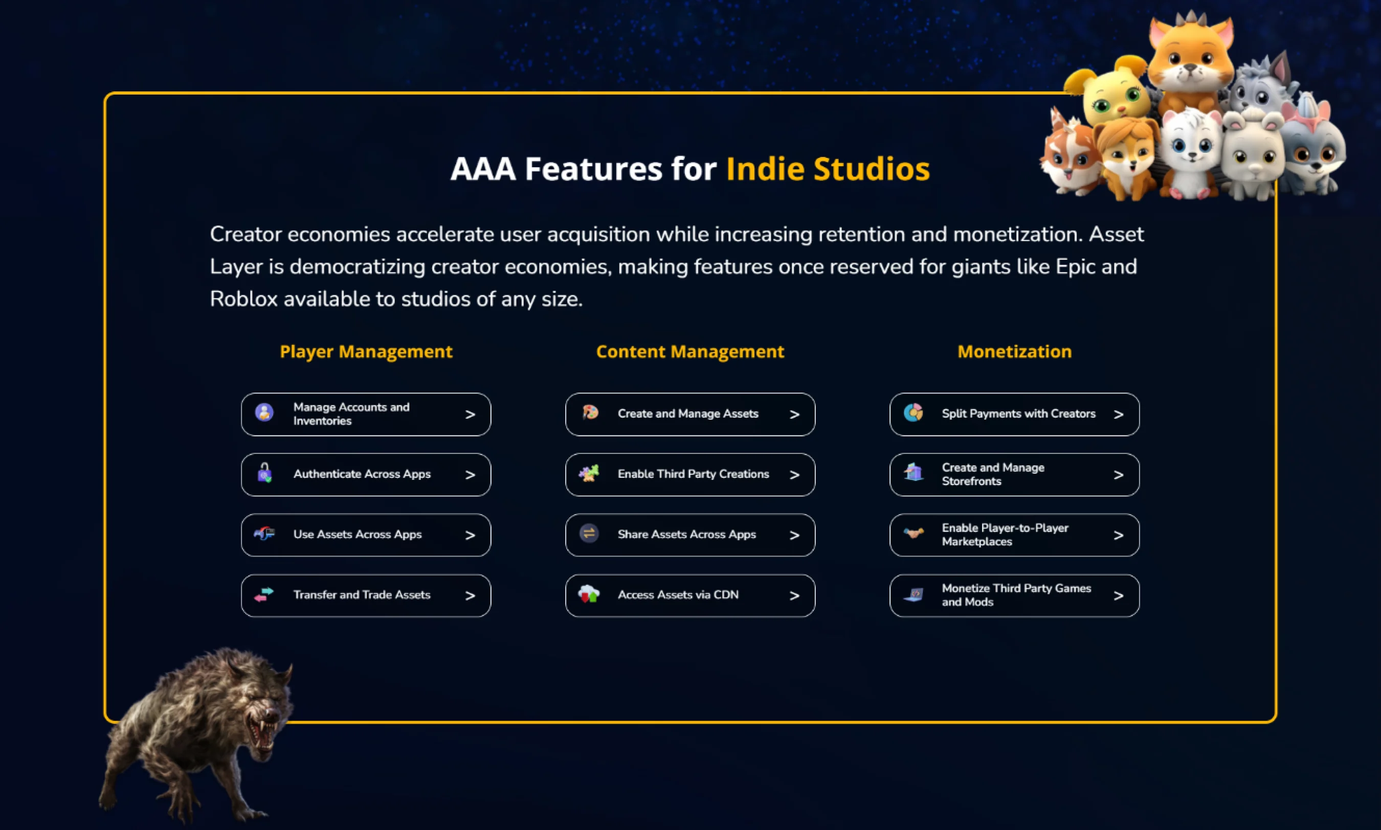
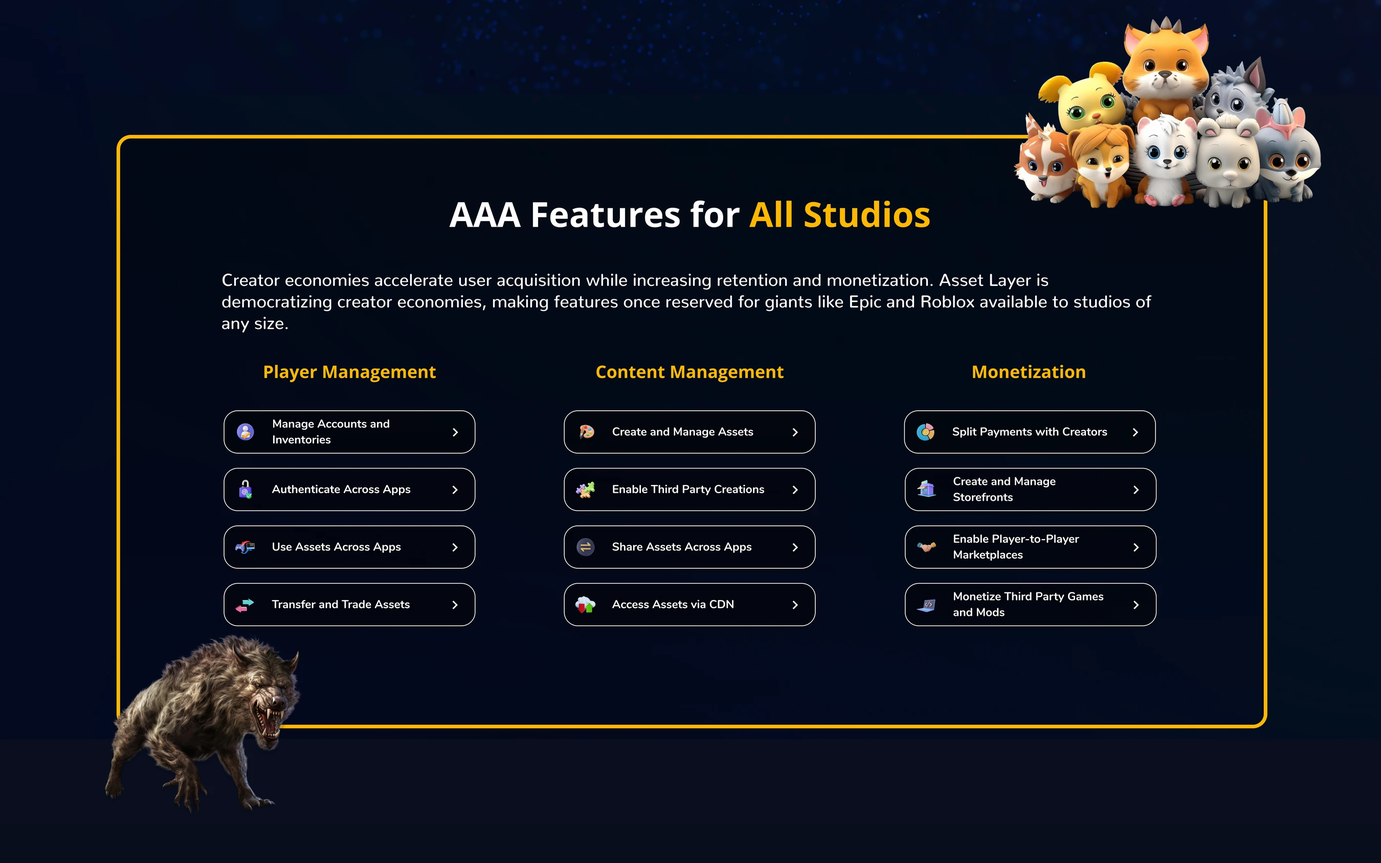
Swap in Dylan's intro, descriptive and features images
New exports from Dylan. Intro and features at 2700px (plus 1350), descriptive
at its native 1920px (plus 960). Width/height updated to the new aspect ratios,
features alt text now says All Studios.

Claude-Session: https://claude.ai/code/session_01C1U52tf2SVUNGvqffZPHK7

diff --git a/landing-page.html b/landing-page.html
@@ -43,7 +43,7 @@
 </header><section class="wrap sec" style="padding-bottom:0"><div class="sec-head" style="margin-bottom:0"><h2>The short version</h2><span class="mono muted">About a minute</span></div><div class="short">
 <div class="row"><h3>The problem</h3><p>Too many new visitors to AssetLayer.com left before creating an account or clicking through to learn more. The product and its audience had also changed since the page was written, so it no longer described what Asset Layer offered.</p></div>
 <div class="row"><h3>What I did</h3><p>I had about two weeks, testing included, and the page had to stay simple enough for engineering to build quickly. I kept the parts of the old page that worked and cut the rest. Competitive research and sessions with people from our community pointed the same way: the page leaned on copy too heavily and looked sterile. We adopted a rule that anything we couldn’t explain in two sentences got an illustration, and moved to a more colorful theme inside the brand guidelines.</p></div>
-<div class="row result"><h3>The result</h3><p>More people created an Asset Layer account and app on their first visit. Visitors stayed on the page longer, and more of them clicked through to the docs and blog.</p></div></div></section><div class="wrap" data-short><figure class="rv pad" style="margin-top:clamp(28px,4vw,56px)"><img src="images/landing-page/intro.webp" srcset="images/landing-page/intro-1350.webp 1350w, images/landing-page/intro.webp 2700w" sizes="(max-width:860px) 92vw, 1300px" width="2700" height="1284" alt="Intro block: the headline The Creator Economy Backend for Games, a get started button, Unity, Magic and HandCash logos, and a screenshot of the Asset Layer dashboard" loading="lazy" decoding="async"><figcaption>The new intro block: one line about the product, one call to action, one picture.</figcaption></figure></div><div class="wrap"><div class="more"><p class="muted">That’s the essential part. The full case study has 6 more sections on research, process and design decisions.</p><button class="btn" type="button" data-set-detail="everything">Read everything <span aria-hidden="true">↓</span></button></div></div><div class="wrap"><section class="chapter" data-full><h2>Context and constraints</h2><div class="prose"><p>You only get one chance at a first impression, and for a SaaS company the landing page is where it happens. When we saw a high churn rate for new visitors to AssetLayer.com, improving that impression became a priority.</p><p>Asset Layer is a UGC platform that turns games into creator ecosystems. Developers use it to fast track their apps into ecosystems with exchangeable assets, and third party creators can submit their own content to those apps.</p><p>It was also a startup. The design had to stay lightweight so developers weren’t handed bloat, and I watched for scope creep throughout. As lead designer I built the large majority of the mockups, prototypes and components for this project myself in Figma.</p><h3>The goal</h3><p>A new lightweight landing page that keeps more new visitors and accurately reflects the product, leading to more sign ups and more interaction with Asset Layer.</p></div></section><section class="chapter" data-full><h2>Competitive research</h2><div class="prose"><p>With limited resources, it mattered that we didn’t build things that wouldn’t help. I looked at competitors’ landing pages to see what they were doing right or wrong, and what our users probably already expected from a SaaS product in this space. That research shaped the content of the page as well as its tone and look.</p></div><div class="pair"><figure class="rv pad"><img src="images/landing-page/competitive-research-1.webp" srcset="images/landing-page/competitive-research-1-693.webp 693w, images/landing-page/competitive-research-1.webp 1387w" sizes="(max-width:860px) 92vw, 1300px" width="1387" height="458" alt="A row of competitor landing pages laid out side by side" loading="lazy" decoding="async"></figure><figure class="rv pad"><img src="images/landing-page/competitive-research-2.webp" sizes="(max-width:860px) 92vw, 1300px" width="1097" height="777" alt="A second group of competitor landing pages collected for review" loading="lazy" decoding="async"></figure></div></section><section class="chapter" data-full><h2>What was wrong with the old page</h2><div class="prose"><p>This was a quick redesign of an existing page, so starting from scratch made no sense. We kept the sections that were working and removed the ones that weren’t.</p><p>The biggest flaw, from feedback and from user testing, was how much the page relied on copy to explain the product. People felt overwhelmed and weren’t sure what to read first.</p><p>The middle section, titled “Asset Layer is a Game Changer”, confused people more than we expected. In testing we asked users to read it and describe what they understood. Many had trouble following the images and explanations, so we put more weight on simplicity.</p></div><figure class="rv narrow"><div class="tall" tabindex="0" role="region" aria-label="The previous landing page. Scrollable image."><img src="images/landing-page/old-page-full.webp" srcset="images/landing-page/old-page-full-1165.webp 1165w, images/landing-page/old-page-full.webp 2330w" sizes="(max-width:860px) 92vw, 760px" width="2330" height="7126" alt="Full length screenshot of the previous Asset Layer landing page" loading="lazy" decoding="async"></div><figcaption>The previous landing page. Scroll inside the frame to see the whole page.</figcaption></figure></section><section class="chapter" data-full><h2>The design process</h2><div class="prose"><h3 style="margin-top:0">Testing and iterating</h3><p>Alongside the competitive research, we spent a lot of time with users from our community, gathering feedback on readability and looks. Each new draft went in front of customers and the team. That loop of tweaking and testing exposed many of our assumptions, and it’s what led us to rethink the aesthetics and the amount of copy.</p><h3>Establishing a theme</h3><p>The old page lacked character. It was sterile and uninviting. We went for something sleeker and more futuristic, shifting away from black and white toward colorful gradients with blues and yellows, more images, and a more playful layout, all within our brand guidelines.</p><p>When we showed the new theme to users, they were noticeably more excited about the product. The team believes this change was a big part of the improved numbers after launch.</p></div><figure class="rv narrow pad"><img src="images/landing-page/color-palette.webp" srcset="images/landing-page/color-palette-1250.webp 1250w, images/landing-page/color-palette.webp 2500w" sizes="(max-width:860px) 92vw, 760px" width="2500" height="668" alt="Color palettes compared: the previous white, blue and charcoal next to the improved yellow, navy and blue" loading="lazy" decoding="async"><figcaption>Previous palette and the improved one.</figcaption></figure><div class="prose sub"><h3>Simplifying the copy</h3><p>Describing a complex system in short, simple language is tricky. Where something couldn’t be explained in two sentences, we paired it with an illustration. The page became easier to read and better balanced between image and text.</p></div></section><section class="chapter" data-full><h2>Design breakdown</h2><div class="prose"><p>The page, one block at a time.</p></div><div class="prose sub"><h3>Introductory block</h3><p>The intro block has a quick description of the product, the main call to action to get started, and a simplified image of the product. A few partner logos establish credibility. With this design we saw a significant increase in visitors clicking the call to action.</p></div><figure class="rv pad"><img src="images/landing-page/intro.webp" srcset="images/landing-page/intro-1350.webp 1350w, images/landing-page/intro.webp 2700w" sizes="(max-width:860px) 92vw, 1300px" width="2700" height="1284" alt="Intro block: the headline The Creator Economy Backend for Games, a get started button, Unity, Magic and HandCash logos, and a screenshot of the Asset Layer dashboard" loading="lazy" decoding="async"></figure><div class="prose sub"><h3>Descriptive block</h3><p>The elevator pitch, common across SaaS competitors. Compared with the previous version, it leans on images to give each feature context. On the live site it animates as you scroll.</p></div><figure class="rv pad"><img src="images/landing-page/descriptive.webp" srcset="images/landing-page/descriptive-1350.webp 1350w, images/landing-page/descriptive.webp 2700w" sizes="(max-width:860px) 92vw, 1300px" width="2700" height="1284" alt="Descriptive block headed Transform Community Into Collaboration, with illustrated icons for UGC, interoperability and monetization" loading="lazy" decoding="async"></figure><div class="prose sub"><h3>Features block</h3><p>The most detailed part of the page: a list of platform features across different use cases, each linking to the relevant documentation and paired with an icon so the section doesn’t feel copy heavy. Game assets give the page a more playful look, an idea that came from the competitive research.</p></div><figure class="rv pad"><img src="images/landing-page/features.webp" srcset="images/landing-page/features-1350.webp 1350w, images/landing-page/features.webp 2700w" sizes="(max-width:860px) 92vw, 1300px" width="2700" height="1624" alt="Features block headed AAA Features for Indie Studios: twelve feature links in three columns, player management, content management and monetization, framed by cartoon animal characters and a werewolf" loading="lazy" decoding="async"></figure><div class="prose sub"><h3>Demo block</h3><p>This carried over from the original page. Customers told us they wanted to see the product at work, and the video shows how easy it is to integrate with their application.</p></div><figure class="rv pad"><img src="images/landing-page/demo.webp" srcset="images/landing-page/demo-1350.webp 1350w, images/landing-page/demo.webp 2700w" sizes="(max-width:860px) 92vw, 1300px" width="2700" height="1016" alt="Demo block headed Plug and Play with Any Unity Game, a try Asset Layer button and an embedded video about the Unity integration" loading="lazy" decoding="async"></figure><div class="prose sub"><h3>Example applications</h3><p>Competitive research showed the importance of real applications built on the platform. We featured two built by the internal team and designed by me, in a carousel, since they are best shown with several images and little caption text. One of them is live at <a href="https://Rolltopia.games" target="_blank" rel="noopener">Rolltopia.games</a>.</p></div><figure class="rv pad"><img src="images/landing-page/examples.webp" srcset="images/landing-page/examples-1350.webp 1350w, images/landing-page/examples.webp 2700w" sizes="(max-width:860px) 92vw, 1300px" width="2700" height="1611" alt="Powered By Asset Layer block showing two games built on the platform, Rolltopia and Duro Dogs, in a carousel" loading="lazy" decoding="async"></figure><div class="prose sub"><h3>Contact form</h3><p>Several competitors had a calendar feature, and many of our customers wanted to talk through features on a call. This let them book a meeting with the team quickly. Almost every user who scheduled a call went on to create an Asset Layer app.</p></div><figure class="rv pad"><img src="images/landing-page/contact.webp" srcset="images/landing-page/contact-1350.webp 1350w, images/landing-page/contact.webp 2700w" sizes="(max-width:860px) 92vw, 1300px" width="2700" height="1377" alt="Contact block headed Interested in Learning More, with a contact button and a calendar for booking a call with the team" loading="lazy" decoding="async"></figure><div class="prose sub"><h3>Footer</h3><p>The footer is a directory. Ours links to things outside the top nav: the blog, social accounts, and other apps built on the platform.</p></div><figure class="rv pad"><img src="images/landing-page/footer.webp" srcset="images/landing-page/footer-1350.webp 1350w, images/landing-page/footer.webp 2700w" sizes="(max-width:860px) 92vw, 1300px" width="2700" height="458" alt="Black footer with the Asset Layer logo and four columns of links: product, resources, our games and social" loading="lazy" decoding="async"></figure><div class="prose sub"><h3>Mobile</h3><p>The Asset Layer app is used almost entirely on desktop, but our analytics showed that many people visit for the first time on a phone, usually from social posts or the blog. I designed with breakpoints and several Figma mockup variations so the page works across device sizes.</p></div><figure class="rv phone pad"><img src="images/landing-page/mobile.webp" width="375" height="792" alt="Mobile version of the landing page: the headline The Backend Solution for Creator Economies, a get started for free button and the top of the dashboard" loading="lazy" decoding="async"></figure></section><section class="chapter" data-full><h2>Final design and what came after</h2><div class="prose"><p>The full page is below, though the live site at <a href="https://assetlayer.com" target="_blank" rel="noopener">AssetLayer.com</a> shows it better, with its animations and breakpoints.</p><p>After the changes went live, more users created an Asset Layer account and app on their first visit. Average time on the page went up, and so did the number of people clicking a secondary link such as documentation or the blog.</p><p>Some parts of the site still weren’t performing as well as they could, so the plan was to keep adjusting copy and images based on feedback and analytics.</p></div><figure class="rv narrow"><div class="tall" tabindex="0" role="region" aria-label="The redesigned landing page. Scrollable image."><img src="images/landing-page/new-page-full.webp" srcset="images/landing-page/new-page-full-960.webp 960w, images/landing-page/new-page-full.webp 1920w" sizes="(max-width:860px) 92vw, 760px" width="1920" height="6468" alt="Full length screenshot of the redesigned Asset Layer landing page" loading="lazy" decoding="async"></div><figcaption>The redesigned landing page. Scroll inside the frame to see the whole page.</figcaption></figure></section></div><div class="wrap"><a class="next" href="imf.html"><span class="mono muted">Next project</span><strong>IMF intranet under constraints <span aria-hidden="true">→</span></strong></a></div>
+<div class="row result"><h3>The result</h3><p>More people created an Asset Layer account and app on their first visit. Visitors stayed on the page longer, and more of them clicked through to the docs and blog.</p></div></div></section><div class="wrap" data-short><figure class="rv pad" style="margin-top:clamp(28px,4vw,56px)"><img src="images/landing-page/intro.webp" srcset="images/landing-page/intro-1350.webp 1350w, images/landing-page/intro.webp 2700w" sizes="(max-width:860px) 92vw, 1300px" width="2700" height="1335" alt="Intro block: the headline The Creator Economy Backend for Games, a get started button, Unity, Magic and HandCash logos, and a screenshot of the Asset Layer dashboard" loading="lazy" decoding="async"><figcaption>The new intro block: one line about the product, one call to action, one picture.</figcaption></figure></div><div class="wrap"><div class="more"><p class="muted">That’s the essential part. The full case study has 6 more sections on research, process and design decisions.</p><button class="btn" type="button" data-set-detail="everything">Read everything <span aria-hidden="true">↓</span></button></div></div><div class="wrap"><section class="chapter" data-full><h2>Context and constraints</h2><div class="prose"><p>You only get one chance at a first impression, and for a SaaS company the landing page is where it happens. When we saw a high churn rate for new visitors to AssetLayer.com, improving that impression became a priority.</p><p>Asset Layer is a UGC platform that turns games into creator ecosystems. Developers use it to fast track their apps into ecosystems with exchangeable assets, and third party creators can submit their own content to those apps.</p><p>It was also a startup. The design had to stay lightweight so developers weren’t handed bloat, and I watched for scope creep throughout. As lead designer I built the large majority of the mockups, prototypes and components for this project myself in Figma.</p><h3>The goal</h3><p>A new lightweight landing page that keeps more new visitors and accurately reflects the product, leading to more sign ups and more interaction with Asset Layer.</p></div></section><section class="chapter" data-full><h2>Competitive research</h2><div class="prose"><p>With limited resources, it mattered that we didn’t build things that wouldn’t help. I looked at competitors’ landing pages to see what they were doing right or wrong, and what our users probably already expected from a SaaS product in this space. That research shaped the content of the page as well as its tone and look.</p></div><div class="pair"><figure class="rv pad"><img src="images/landing-page/competitive-research-1.webp" srcset="images/landing-page/competitive-research-1-693.webp 693w, images/landing-page/competitive-research-1.webp 1387w" sizes="(max-width:860px) 92vw, 1300px" width="1387" height="458" alt="A row of competitor landing pages laid out side by side" loading="lazy" decoding="async"></figure><figure class="rv pad"><img src="images/landing-page/competitive-research-2.webp" sizes="(max-width:860px) 92vw, 1300px" width="1097" height="777" alt="A second group of competitor landing pages collected for review" loading="lazy" decoding="async"></figure></div></section><section class="chapter" data-full><h2>What was wrong with the old page</h2><div class="prose"><p>This was a quick redesign of an existing page, so starting from scratch made no sense. We kept the sections that were working and removed the ones that weren’t.</p><p>The biggest flaw, from feedback and from user testing, was how much the page relied on copy to explain the product. People felt overwhelmed and weren’t sure what to read first.</p><p>The middle section, titled “Asset Layer is a Game Changer”, confused people more than we expected. In testing we asked users to read it and describe what they understood. Many had trouble following the images and explanations, so we put more weight on simplicity.</p></div><figure class="rv narrow"><div class="tall" tabindex="0" role="region" aria-label="The previous landing page. Scrollable image."><img src="images/landing-page/old-page-full.webp" srcset="images/landing-page/old-page-full-1165.webp 1165w, images/landing-page/old-page-full.webp 2330w" sizes="(max-width:860px) 92vw, 760px" width="2330" height="7126" alt="Full length screenshot of the previous Asset Layer landing page" loading="lazy" decoding="async"></div><figcaption>The previous landing page. Scroll inside the frame to see the whole page.</figcaption></figure></section><section class="chapter" data-full><h2>The design process</h2><div class="prose"><h3 style="margin-top:0">Testing and iterating</h3><p>Alongside the competitive research, we spent a lot of time with users from our community, gathering feedback on readability and looks. Each new draft went in front of customers and the team. That loop of tweaking and testing exposed many of our assumptions, and it’s what led us to rethink the aesthetics and the amount of copy.</p><h3>Establishing a theme</h3><p>The old page lacked character. It was sterile and uninviting. We went for something sleeker and more futuristic, shifting away from black and white toward colorful gradients with blues and yellows, more images, and a more playful layout, all within our brand guidelines.</p><p>When we showed the new theme to users, they were noticeably more excited about the product. The team believes this change was a big part of the improved numbers after launch.</p></div><figure class="rv narrow pad"><img src="images/landing-page/color-palette.webp" srcset="images/landing-page/color-palette-1250.webp 1250w, images/landing-page/color-palette.webp 2500w" sizes="(max-width:860px) 92vw, 760px" width="2500" height="668" alt="Color palettes compared: the previous white, blue and charcoal next to the improved yellow, navy and blue" loading="lazy" decoding="async"><figcaption>Previous palette and the improved one.</figcaption></figure><div class="prose sub"><h3>Simplifying the copy</h3><p>Describing a complex system in short, simple language is tricky. Where something couldn’t be explained in two sentences, we paired it with an illustration. The page became easier to read and better balanced between image and text.</p></div></section><section class="chapter" data-full><h2>Design breakdown</h2><div class="prose"><p>The page, one block at a time.</p></div><div class="prose sub"><h3>Introductory block</h3><p>The intro block has a quick description of the product, the main call to action to get started, and a simplified image of the product. A few partner logos establish credibility. With this design we saw a significant increase in visitors clicking the call to action.</p></div><figure class="rv pad"><img src="images/landing-page/intro.webp" srcset="images/landing-page/intro-1350.webp 1350w, images/landing-page/intro.webp 2700w" sizes="(max-width:860px) 92vw, 1300px" width="2700" height="1335" alt="Intro block: the headline The Creator Economy Backend for Games, a get started button, Unity, Magic and HandCash logos, and a screenshot of the Asset Layer dashboard" loading="lazy" decoding="async"></figure><div class="prose sub"><h3>Descriptive block</h3><p>The elevator pitch, common across SaaS competitors. Compared with the previous version, it leans on images to give each feature context. On the live site it animates as you scroll.</p></div><figure class="rv pad"><img src="images/landing-page/descriptive.webp" srcset="images/landing-page/descriptive-960.webp 960w, images/landing-page/descriptive.webp 1920w" sizes="(max-width:860px) 92vw, 1300px" width="1920" height="910" alt="Descriptive block headed Transform Community Into Collaboration, with illustrated icons for UGC, interoperability and monetization" loading="lazy" decoding="async"></figure><div class="prose sub"><h3>Features block</h3><p>The most detailed part of the page: a list of platform features across different use cases, each linking to the relevant documentation and paired with an icon so the section doesn’t feel copy heavy. Game assets give the page a more playful look, an idea that came from the competitive research.</p></div><figure class="rv pad"><img src="images/landing-page/features.webp" srcset="images/landing-page/features-1350.webp 1350w, images/landing-page/features.webp 2700w" sizes="(max-width:860px) 92vw, 1300px" width="2700" height="1687" alt="Features block headed AAA Features for All Studios: twelve feature links in three columns, player management, content management and monetization, framed by cartoon animal characters and a werewolf" loading="lazy" decoding="async"></figure><div class="prose sub"><h3>Demo block</h3><p>This carried over from the original page. Customers told us they wanted to see the product at work, and the video shows how easy it is to integrate with their application.</p></div><figure class="rv pad"><img src="images/landing-page/demo.webp" srcset="images/landing-page/demo-1350.webp 1350w, images/landing-page/demo.webp 2700w" sizes="(max-width:860px) 92vw, 1300px" width="2700" height="1016" alt="Demo block headed Plug and Play with Any Unity Game, a try Asset Layer button and an embedded video about the Unity integration" loading="lazy" decoding="async"></figure><div class="prose sub"><h3>Example applications</h3><p>Competitive research showed the importance of real applications built on the platform. We featured two built by the internal team and designed by me, in a carousel, since they are best shown with several images and little caption text. One of them is live at <a href="https://Rolltopia.games" target="_blank" rel="noopener">Rolltopia.games</a>.</p></div><figure class="rv pad"><img src="images/landing-page/examples.webp" srcset="images/landing-page/examples-1350.webp 1350w, images/landing-page/examples.webp 2700w" sizes="(max-width:860px) 92vw, 1300px" width="2700" height="1611" alt="Powered By Asset Layer block showing two games built on the platform, Rolltopia and Duro Dogs, in a carousel" loading="lazy" decoding="async"></figure><div class="prose sub"><h3>Contact form</h3><p>Several competitors had a calendar feature, and many of our customers wanted to talk through features on a call. This let them book a meeting with the team quickly. Almost every user who scheduled a call went on to create an Asset Layer app.</p></div><figure class="rv pad"><img src="images/landing-page/contact.webp" srcset="images/landing-page/contact-1350.webp 1350w, images/landing-page/contact.webp 2700w" sizes="(max-width:860px) 92vw, 1300px" width="2700" height="1377" alt="Contact block headed Interested in Learning More, with a contact button and a calendar for booking a call with the team" loading="lazy" decoding="async"></figure><div class="prose sub"><h3>Footer</h3><p>The footer is a directory. Ours links to things outside the top nav: the blog, social accounts, and other apps built on the platform.</p></div><figure class="rv pad"><img src="images/landing-page/footer.webp" srcset="images/landing-page/footer-1350.webp 1350w, images/landing-page/footer.webp 2700w" sizes="(max-width:860px) 92vw, 1300px" width="2700" height="458" alt="Black footer with the Asset Layer logo and four columns of links: product, resources, our games and social" loading="lazy" decoding="async"></figure><div class="prose sub"><h3>Mobile</h3><p>The Asset Layer app is used almost entirely on desktop, but our analytics showed that many people visit for the first time on a phone, usually from social posts or the blog. I designed with breakpoints and several Figma mockup variations so the page works across device sizes.</p></div><figure class="rv phone pad"><img src="images/landing-page/mobile.webp" width="375" height="792" alt="Mobile version of the landing page: the headline The Backend Solution for Creator Economies, a get started for free button and the top of the dashboard" loading="lazy" decoding="async"></figure></section><section class="chapter" data-full><h2>Final design and what came after</h2><div class="prose"><p>The full page is below, though the live site at <a href="https://assetlayer.com" target="_blank" rel="noopener">AssetLayer.com</a> shows it better, with its animations and breakpoints.</p><p>After the changes went live, more users created an Asset Layer account and app on their first visit. Average time on the page went up, and so did the number of people clicking a secondary link such as documentation or the blog.</p><p>Some parts of the site still weren’t performing as well as they could, so the plan was to keep adjusting copy and images based on feedback and analytics.</p></div><figure class="rv narrow"><div class="tall" tabindex="0" role="region" aria-label="The redesigned landing page. Scrollable image."><img src="images/landing-page/new-page-full.webp" srcset="images/landing-page/new-page-full-960.webp 960w, images/landing-page/new-page-full.webp 1920w" sizes="(max-width:860px) 92vw, 760px" width="1920" height="6468" alt="Full length screenshot of the redesigned Asset Layer landing page" loading="lazy" decoding="async"></div><figcaption>The redesigned landing page. Scroll inside the frame to see the whole page.</figcaption></figure></section></div><div class="wrap"><a class="next" href="imf.html"><span class="mono muted">Next project</span><strong>IMF intranet under constraints <span aria-hidden="true">→</span></strong></a></div>
 </main>
 <footer class="foot" id="contact">
   <div class="wrap">
